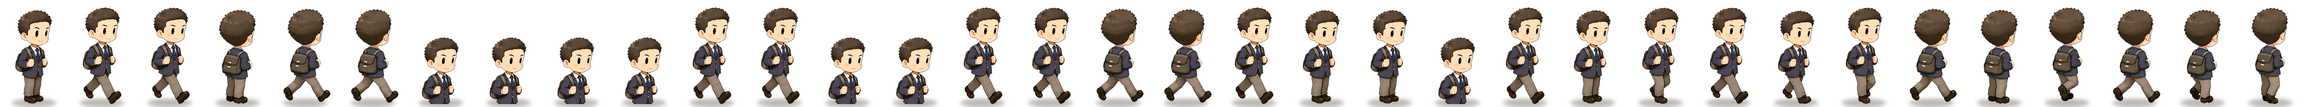
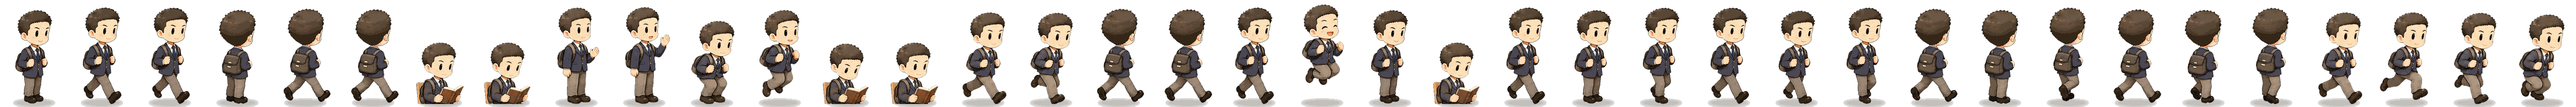
Add action poses, kid sprites, 3 more female teachers; quantize char sheets
Claude-Session: https://claude.ai/code/session_011d3KcKFiuVo1dRnYze4gVJ

diff --git a/js/art-chibi.js b/js/art-chibi.js
@@ -4,7 +4,7 @@
 'use strict';
 const SE=root.SE; const ART=SE.ART=SE.ART||{}; const hs=(a,b,c)=>{ let h=(a*374761393+b*668265263+(c|0)*2147483647)|0; h=(h^(h>>>13))*1274126177|0; return ((h^(h>>>16))>>>0)/4294967296; };
 const SKIN=['#fbdcc2','#f4cfae','#e6b98f','#c99468','#9a6a46'], HAIR=['#2b2220','#4a3224','#7a4a2a','#b8863a','#d8b86a','#8a8f94','#3a2a4a','#7a2f2f'], FW=34, FH=54;
-const FRN=['idle','w1','w2','bidle','bw1','bw2','sit','study','talk','talk2','ex1','ex2','work','rest','r1','r2','br1','br2','sweep','happy','sad','sitchat','wk0','wk1','wk2','wk3','wk4','wk5','bwk0','bwk1','bwk2','bwk3','bwk4','bwk5'];
+const FRN=['idle','w1','w2','bidle','bw1','bw2','sit','study','talk','talk2','ex1','ex2','work','rest','r1','r2','br1','br2','sweep','happy','sad','sitchat','wk0','wk1','wk2','wk3','wk4','wk5','bwk0','bwk1','bwk2','bwk3','bwk4','bwk5','rn0','rn1','rn2','rn3'];
 ART.CHIBI={FW,FH,FR:FRN};
 // 由真實資料導出外觀（同一人永遠同樣外觀；年齡、年級、身分影響身高與穿著）
 ART.lookOf=(p,kind,s,stage)=>{ const id=p.id; const staff=kind==='t'; const st=stage==null?2:stage; const sx=p.sx?1:0; const R=(k,n)=>Math.floor(hs(id,k,1)*n);
@@ -63,8 +63,8 @@ ART.figure=figure;
 // 精靈圖（依外觀快取）；回傳 {cv,fw,fh,fx(frameIndex)}
 ART.chibiSheet=L=>{ const key=ART.lookKey(L); const cache=ART._cs||(ART._cs=new Map()); if(cache.has(key)) return cache.get(key); const ex=ART.external['chibi:'+key]; if(ex){ cache.set(key,ex); return ex; }
   const FR=ART.CHIBI.FR; const cv=document.createElement('canvas'); cv.width=FW*FR.length; cv.height=FH; const c=cv.getContext('2d');
-  FR.forEach((n,i)=>{ c.save(); c.beginPath(); c.rect(i*FW,0,FW,FH); c.clip(); figure(c,i*FW+FW/2,FH-4,L,/^b?wk\d$/.test(n)?(+n.slice(-1)&1?'w2':'w1'):n==='bidle'?'idle':n==='bw1'?'w1':n==='bw2'?'w2':n==='br1'?'r1':n==='br2'?'r2':n,n[0]==='b',1); c.restore(); }); const r={cv,fw:FW,fh:FH,ax:FW/2,ay:FH-4}; cache.set(key,r); return r; };
-ART.frameOf=(pose,t,dir)=>{ const b=dir?1:0; const f=n=>ART.CHIBI.FR.indexOf(n); const k=(t*6|0)&1; if(pose==='walk') return f((b?'bwk':'wk')+(((t*9)|0)%6)); if(pose==='run') return f(b?(((t*9|0)&1)?'br1':'br2'):(((t*9|0)&1)?'r1':'r2')); if(pose==='study') return f('study'); if(pose==='talk') return f(((t*3|0)&1)?'talk':'talk2'); if(pose==='exercise') return f(((t*5|0)&1)?'ex1':'ex2'); if(pose==='work') return f('work'); if(pose==='rest') return f('rest'); if(pose==='sit') return f('sitchat'); if(pose==='sweep') return f('sweep'); if(pose==='happy') return f('happy'); if(pose==='sad') return f('sad'); return f(b?'bidle':'idle'); };
+  FR.forEach((n,i)=>{ c.save(); c.beginPath(); c.rect(i*FW,0,FW,FH); c.clip(); figure(c,i*FW+FW/2,FH-4,L,/^rn\d$/.test(n)?(+n[2]&1?'r2':'r1'):/^b?wk\d$/.test(n)?(+n.slice(-1)&1?'w2':'w1'):n==='bidle'?'idle':n==='bw1'?'w1':n==='bw2'?'w2':n==='br1'?'r1':n==='br2'?'r2':n,n[0]==='b',1); c.restore(); }); const r={cv,fw:FW,fh:FH,ax:FW/2,ay:FH-4}; cache.set(key,r); return r; };
+ART.frameOf=(pose,t,dir)=>{ const b=dir?1:0; const f=n=>ART.CHIBI.FR.indexOf(n); const k=(t*6|0)&1; if(pose==='walk') return f((b?'bwk':'wk')+(((t*9)|0)%6)); if(pose==='run'&&!b) return f('rn'+(((t*9)|0)%4)); if(pose==='run') return f(b?(((t*9|0)&1)?'br1':'br2'):(((t*9|0)&1)?'r1':'r2')); if(pose==='study') return f('study'); if(pose==='talk') return f(((t*3|0)&1)?'talk':'talk2'); if(pose==='exercise') return f(((t*5|0)&1)?'ex1':'ex2'); if(pose==='work') return f('work'); if(pose==='rest') return f('rest'); if(pose==='sit') return f('sitchat'); if(pose==='sweep') return f('sweep'); if(pose==='happy') return f('happy'); if(pose==='sad') return f('sad'); return f(b?'bidle':'idle'); };
 // 半身肖像（大頭＋肩），回傳 dataURL（快取）
 ART.portrait=(L,size)=>{ size=size||96; const key='pt|'+ART.lookKey(L)+'|'+size; const cache=ART._cs||(ART._cs=new Map()); if(cache.has(key)) return cache.get(key); const cv=document.createElement('canvas'); cv.width=cv.height=size; const c=cv.getContext('2d'); const bg=c.createLinearGradient(0,0,0,size); bg.addColorStop(0,'#efe6cf'); bg.addColorStop(1,'#d8c9a6'); c.fillStyle=bg; c.fillRect(0,0,size,size); const sc=size/30; c.save(); c.beginPath(); c.rect(0,0,size,size); c.clip(); figure(c,size/2,size*1.2,L,'idle',false,sc*.93); c.restore(); c.strokeStyle='rgba(120,84,59,.6)'; c.lineWidth=2; c.strokeRect(1,1,size-2,size-2); const u=cv.toDataURL('image/png'); cache.set(key,u); return u; };
 })(typeof window!=='undefined'?window:globalThis);

diff --git a/js/assets.js b/js/assets.js
@@ -16,7 +16,7 @@ const bs=ART.buildingSprite; ART.buildingSprite=function(b,d,ctx){ if(A.useBuild
 const ts=ART.treeSprite; ART.treeSprite=function(kind,season,v,dead){ const r=dead?A.get('tree:dead:any:0'):A.first([`tree:${kind}:${season}:${v%3}`,`tree:${kind}:any:${v%3}`]); return r||ts.apply(this,arguments); };
 const ds=ART.decorSprite; ART.decorSprite=function(name,season,extra){ const r=A.first([`decor:${name}:${season}`,`decor:${name}:any`]); return r||ds.apply(this,arguments); };
 ART._tile=(season,kind,x,y)=>{ if(!A.man) return null; const v=Math.floor(hs(x,y,5)*3); const r=A.first([`ground:${kind}:${season}:${v}`,`ground:${kind}:${season}:0`,`ground:${kind}:any:0`]); return r?r.cv:null; };
-const cs=ART.chibiSheet; ART.chibiSheet=function(L){ if(A.man){ const variant=Math.floor(hs(L.hair.length,L.style,L.skin.length)*4); const role=L.role==='student'?'student':'teacher'; const r=A.first([`char:${role}:${L.sx}:${variant}`,`char:${role}:${L.sx}:0`]); if(r){ const key='x'+r.key; const cache=ART._cs||(ART._cs=new Map()); if(cache.has(key)) return cache.get(key); const e=r.e,FR=ART.CHIBI.FR.length,FW=ART.CHIBI.FW,FH=ART.CHIBI.FH; const cv=document.createElement('canvas'); const Q=Math.max(1,Math.round(e.fw/FW)); cv.width=FW*FR*Q; cv.height=FH*Q; const c=cv.getContext('2d'); c.imageSmoothingQuality='high'; c.drawImage(r.cv,0,0,r.cv.width,r.cv.height,0,0,FW*FR*Q,FH*Q); const o={cv,q:Q,fw:FW,fh:FH,ax:(e.ax||e.fw/2)*FW/e.fw,ay:(e.ay||e.fh-4)*FH/e.fh,external:true,status:e.status}; cache.set(key,o); return o; } } return cs.apply(this,arguments); };
+const cs=ART.chibiSheet; ART.chibiSheet=function(L){ if(A.man){ const variant=Math.floor(hs(L.hair.length,L.style,L.skin.length)*4); const role=L.role==='student'?'student':'teacher'; const r=A.first([...(L.kid&&role==='student'?[`char:kid:${L.sx}:0`]:[]),`char:${role}:${L.sx}:${variant}`,`char:${role}:${L.sx}:0`]); if(r){ const key='x'+r.key; const cache=ART._cs||(ART._cs=new Map()); if(cache.has(key)) return cache.get(key); const e=r.e,FR=ART.CHIBI.FR.length,FW=ART.CHIBI.FW,FH=ART.CHIBI.FH; const cv=document.createElement('canvas'); const Q=Math.max(1,Math.round(e.fw/FW)); cv.width=FW*FR*Q; cv.height=FH*Q; const c=cv.getContext('2d'); c.imageSmoothingQuality='high'; c.drawImage(r.cv,0,0,r.cv.width,r.cv.height,0,0,FW*FR*Q,FH*Q); const o={cv,q:Q,fw:FW,fh:FH,ax:(e.ax||e.fw/2)*FW/e.fw,ay:(e.ay||e.fh-4)*FH/e.fh,external:true,status:e.status}; cache.set(key,o); return o; } } return cs.apply(this,arguments); };
 // 人物頭像：用手繪頭像取代程式小人頭像（依外觀雜湊固定選一張，同一人永遠同一張）
 A.pcount=(role,sx)=>{ if(!A.man) return 0; let n=0; while(A.man.assets[`portrait:${role}:${sx}:${n}`]) n++; return n; };
 const pt=ART.portrait; ART.portrait=function(L,size){ if(A.man&&L){ const role=L.role==='student'?'s':'t', sx=L.sx?1:0, n=A.pcount(role,sx); if(n){ const j=Math.floor(hs(L.hair?L.hair.length:1,L.style||0,(L.h||1)*1000+(L.acc||0)*7+(L.face||0)*13+(L.skin?L.skin.length:0))*n); const r=A.get(`portrait:${role}:${sx}:${j}`); if(r){ size=size||96; const cache=ART._cs||(ART._cs=new Map()); const key=`apt|${role}${sx}${j}|${size}`; if(cache.has(key)) return cache.get(key); const cv=document.createElement('canvas'); cv.width=cv.height=size; const c=cv.getContext('2d'); c.imageSmoothingQuality='high'; c.drawImage(r.cv,0,0,size,size); const u=cv.toDataURL('image/png'); cache.set(key,u); return u; } } } return pt.apply(this,arguments); };

diff --git a/tools/cut_walk.py b/tools/cut_walk.py
@@ -7,7 +7,7 @@ from PIL import Image,ImageDraw,ImageFilter
 from scipy import ndimage as ndi
 ROOT=os.path.dirname(os.path.dirname(os.path.abspath(__file__)))
 FW,FH,Q=34,54,4
-FRN=['idle','w1','w2','bidle','bw1','bw2','sit','study','talk','talk2','ex1','ex2','work','rest','r1','r2','br1','br2','sweep','happy','sad','sitchat','wk0','wk1','wk2','wk3','wk4','wk5','bwk0','bwk1','bwk2','bwk3','bwk4','bwk5']
+FRN=['idle','w1','w2','bidle','bw1','bw2','sit','study','talk','talk2','ex1','ex2','work','rest','r1','r2','br1','br2','sweep','happy','sad','sitchat','wk0','wk1','wk2','wk3','wk4','wk5','bwk0','bwk1','bwk2','bwk3','bwk4','bwk5','rn0','rn1','rn2','rn3']
 def key(im):
     a=np.array(im.convert('RGB')).astype(float); r,g,b=a[:,:,0],a[:,:,1],a[:,:,2]
     # 洋紅度：r、b 高、g 低
@@ -35,11 +35,11 @@ def frames(path):
     for i in range(6):
         c=im.crop((int(i*cw),0,int((i+1)*cw),H)); fr.append(c)
     return fr
-def build(path):
+def build(path,hs=1.0):
     fr=frames(path); boxes=[f.getchannel('A').point(lambda v:255 if v>40 else 0).getbbox() for f in fr]
     top=min(b[1] for b in boxes); bot=max(b[3] for b in boxes)
     cxs=[(b[0]+b[2])/2 for b in boxes]; cx=float(np.median(cxs)); wmax=max(b[2]-b[0] for b in boxes)
-    hh=bot-top; tgt=(FH*Q-8)*.94; sc=tgt/hh; ww=int(max(wmax*sc+16,FW*Q)); 
+    hh=bot-top; tgt=(FH*Q-8)*.94*hs; sc=tgt/hh; ww=int(max(wmax*sc+16,FW*Q)); 
     outw=FW*Q
     P=[]
     for f,b in zip(fr,boxes):
@@ -48,19 +48,43 @@ def build(path):
         if w.width>outw: w=w.crop(((w.width-outw)//2,0,(w.width-outw)//2+outw,w.height))
         P.append(w)
     return P
-def sheet(P,B):
+def build_act(path,Hw):
+    raw=Image.open(path).convert('RGB'); im=key(raw); W,H=im.size; cw,ch=W/4,H/4
+    cells=[[im.crop((int(c*cw),int(r*ch),int((c+1)*cw),int((r+1)*ch))) for c in range(4)] for r in range(4)]
+    bb=lambda f:f.getchannel('A').point(lambda v:255 if v>40 else 0).getbbox()
+    ha=bb(cells[2][0]); ha=ha[3]-ha[1]; sa=Hw/ha; out=[]
+    for r in range(4):
+        bs=[bb(f) for f in cells[r]]; ground=max(b[3] for b in bs); cx=float(np.median([(b[0]+b[2])/2 for b in bs])); row=[]
+        for f,b in zip(cells[r],bs):
+            Wn=FW*Q/sa*1.15; w=f.crop((int(cx-Wn/2),b[1],int(cx+Wn/2),b[3])); w=w.resize((int(w.width*sa),int(w.height*sa)),Image.LANCZOS)
+            if w.width>FW*Q: w=w.crop(((w.width-FW*Q)//2,0,(w.width-FW*Q)//2+FW*Q,w.height))
+            lift=int((ground-b[3])*sa); lift=max(0,min(lift,FH*Q-int(1.6*Q)-w.height)); row.append((w,lift))
+        out.append(row)
+    return out
+def sheet(P,B,ACT=None):
     idle=P[1]; sh=Image.new('RGBA',(FW*Q*len(FRN),FH*Q),(0,0,0,0))
     pick={'idle':idle,'w1':P[0],'w2':P[3],'r1':P[0],'r2':P[3],'ex1':P[0],'ex2':P[3],'sweep':P[0]}
     for i in range(6): pick[f'wk{i}']=P[i]; pick[f'bwk{i}']=B[i]
+    lifts={}
+    if ACT:
+        run,sit,talk,jump=ACT
+        for i in range(4): pick[f'rn{i}']=run[i][0]; lifts[f'rn{i}']=run[i][1]
+        pick['talk']=talk[1][0]; pick['talk2']=talk[2][0]; pick['happy']=jump[2][0]; lifts['happy']=jump[2][1]
+        pick['ex1']=jump[0][0]; pick['ex2']=jump[1][0]; lifts['ex2']=jump[1][1]
+        pick['r1']=run[0][0]; pick['r2']=run[2][0]; lifts['r1']=run[0][1]; lifts['r2']=run[2][1]
+        for n,i in (('sit',0),('sitchat',1),('study',1),('work',2),('rest',0)): pick[n]=sit[i][0]
+    else:
+        for i in range(4): pick[f'rn{i}']=P[[0,1,3,4][i]]
     pick.update({'bidle':B[1],'bw1':B[0],'bw2':B[3],'br1':B[0],'br2':B[3]})
     for fi,n in enumerate(FRN):
         s=pick.get(n)
         if s is None:
             s=idle
-        if n in('sit','study','work','rest','sitchat','talk','talk2'): s=s.crop((0,0,s.width,int(s.height*.72)))
+        if n in('sit','study','work','rest','sitchat'): s=s.crop((0,0,s.width,int(s.height*(.66 if ACT else .72))))
+        elif n in('talk','talk2') and not ACT: s=s.crop((0,0,s.width,int(s.height*.72)))
         cx=fi*FW*Q+FW*Q//2
         shd=Image.new('RGBA',sh.size,(0,0,0,0)); ImageDraw.Draw(shd).ellipse([cx-11*Q,FH*Q-4*Q,cx+11*Q,FH*Q-.5*Q],fill=(60,45,30,90)); sh.alpha_composite(shd.filter(ImageFilter.GaussianBlur(Q)))
-        x=cx-s.width//2; y=FH*Q-s.height-int(1.6*Q)
+        x=cx-s.width//2; y=FH*Q-s.height-int(1.6*Q)-lifts.get(n,0)
         sh.alpha_composite(s,(x,y))
     return sh
 if __name__=='__main__':
@@ -71,12 +95,15 @@ if __name__=='__main__':
     groups={}
     for p in sorted(glob.glob(f'{ROOT}/assets/source/walk/*.png')):
         n=os.path.basename(p)[:-4]
-        if n.endswith('_back'): continue
-        role={'s':'student','t':'teacher'}[n[0]]; sx=int(n[1]); groups.setdefault((role,sx),[]).append(p)
+        if n.endswith('_back') or n.endswith('_act'): continue
+        role={'s':'student','t':'teacher','k':'kid'}[n[0]]; sx=int(n[1]); groups.setdefault((role,sx),[]).append(p)
     for (role,sx),L in groups.items():
-        shs=[sheet(build(p),build(p[:-4]+'_back.png')) for p in L]
-        for v in range(4):
-            sh=shs[v%len(shs)]; fn=f'chars/{role}_{sx}_{v}.png'; sh.save(f'{ROOT}/assets/{fn}',optimize=True)
+        shs=[]
+        for p in L:
+            hs=.8 if role=='kid' else 1.0; Pf=build(p,hs); B=build(p[:-4]+'_back.png',hs); ap=p[:-4]+'_act.png'
+            shs.append(sheet(Pf,B,build_act(ap,Pf[1].height) if os.path.exists(ap) else None))
+        for v in range(1 if role=='kid' else 4):
+            sh=shs[v%len(shs)]; fn=f'chars/{role}_{sx}_{v}.png'; sh.quantize(256,method=Image.Quantize.FASTOCTREE,dither=Image.Dither.NONE).save(f'{ROOT}/assets/{fn}',optimize=True)
             A[f'char:{role}:{sx}:{v}']=dict(src=fn,ox=0,oy=0,k=1,cat='char',status='final',w=sh.width,h=sh.height,fw=FW*Q,fh=FH*Q,ax=FW*Q/2,ay=FH*Q-int(1.6*Q),origin='使用者提供的 ChatGPT 走路圖（6 格走路循環；正面+背面）')
         print(role,sx,len(L),'sources')
     json.dump(m,open(mp,'w'),ensure_ascii=False,indent=1)
